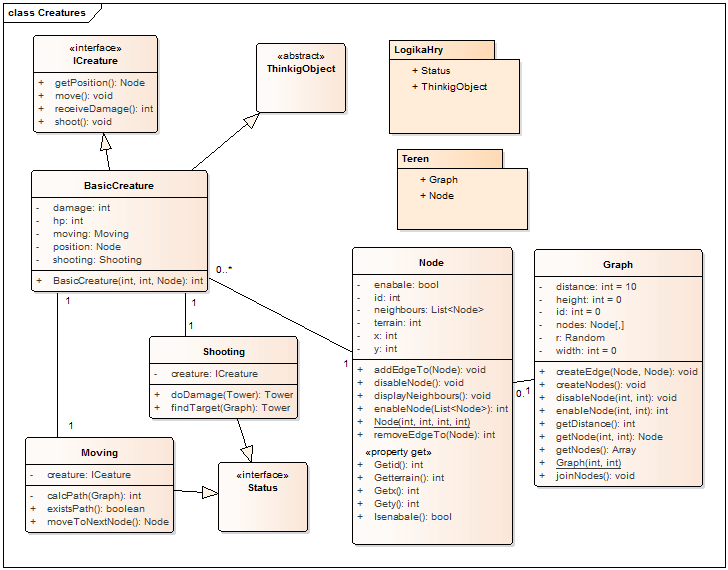
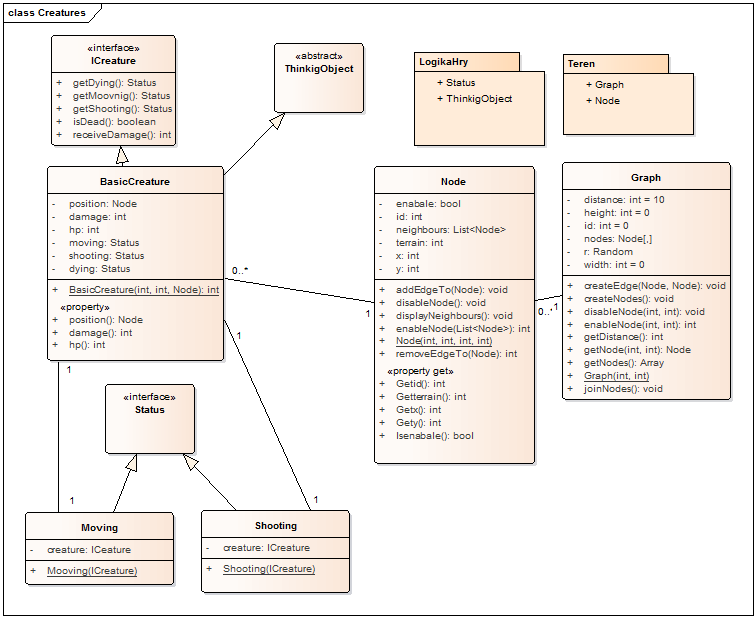
crreatures update

diff --git a/Logika potvor/BasicCreature.cs b/Logika potvor/BasicCreature.cs
@@ -1,16 +1,37 @@
-using System;
+using System;
 using System.Collections.Generic;
 using System.Linq;
 using System.Text;
 using System.Threading.Tasks;
 
-namespace DefendersOfH6
+namespace CreaturesV2
 {
     class BasicCreature : ThinkingObject, ICreature
     {
 
-        private int damage;
-        private int hp;
+        private Node position { get; set; }
+
+        private int damage { get; set; }
+
+        private int hp { get; set; }
+
+        private Status shooting;
+        private Status mooving;
+        private Status dying;
+
+        public BasicCreature(Node position, int damage, int hp)
+        {
+            this.position = position;
+            this.damage = damage;
+            this.hp = hp;
+
+            this.shooting = new Shooting(this);
+            this.mooving = new Mooving(this);
+            this.dying = new Dying(this);
+
+            base.presentStatus = mooving;
+        }
+        
         
         public override void action()
         {
@@ -22,21 +43,34 @@ namespace DefendersOfH6
         {
             throw new NotImplementedException();
         }
-        
-
-        public void Move()
-        {
-            throw new NotImplementedException();
-        }
 
         public int ReciveDamage(int damage)
         {
-            throw new NotImplementedException();
+            return this.damage -= damage;
         }
 
-        public void Shoot()
+        public Boolean isDead()
         {
-            throw new NotImplementedException();
+            if (hp <= 0)
+            {
+                return true;
+            }
+            return false;
+        }
+
+        public Status getDying()
+        {
+            return this.dying;
+        }
+
+        public Status getShooting()
+        {
+            return this.shooting;
+        }
+
+        public Status getMoovnig()
+        {
+            return this.mooving;
         }
     }
 }

diff --git a/Logika potvor/Dying.cs b/Logika potvor/Dying.cs
@@ -4,40 +4,35 @@ using System.Linq;
 using System.Text;
 using System.Threading.Tasks;
 
-namespace DefendersOfH6
+namespace CreaturesV2
 {
-    class Mooving : Status
+    class Dying : Status
     {
         private ICreature creature;
 
-        public Mooving(ICreature creature)
+        public Dying(ICreature creature)
         {
             this.creature = creature;
         }
-        
+
         public Status changeStatus()
         {
-            if (this.creature.isDead())
-            {
-                return this.creature.getDiying();
-            }
-            //change to Shooting is missing
             return null;
         }
 
         public void onEnd()
         {
-            throw new NotImplementedException();
+            //do nothing
         }
 
         public void onStart()
         {
-            throw new NotImplementedException();
+            //do nothing
         }
 
         public void prepare()
         {
-            throw new NotImplementedException();
+            //do nothing
         }
     }
 }

diff --git a/Logika potvor/Shooting.cs b/Logika potvor/Shooting.cs
@@ -1,4 +1,4 @@
-using System;
+using System;
 using System.Collections.Generic;
 using System.Linq;
 using System.Text;
@@ -10,9 +10,18 @@ namespace DefendersOfH6
     {
         private ICreature creature;
 
+        public Shooting(ICreature creature)
+        {
+            this.creature = creature;
+        }
+
         public Status changeStatus()
         {
-            throw new NotImplementedException();
+            if (this.creature.isDead())
+            {
+                return this.creature.getDiying();
+            }
+            return null;
         }
 
         public void onEnd()

diff --git a/Logika potvor/ICreature.cs b/Logika potvor/ICreature.cs
@@ -1,4 +1,4 @@
-using System;
+using System;
 using System.Collections.Generic;
 using System.Linq;
 using System.Text;
@@ -8,10 +8,11 @@ namespace DefendersOfH6
 {
     interface ICreature
     {
-        void Move();
-
         int ReciveDamage(int damage);
+        Boolean isDead();
 
-        void Shoot();
+        Status getDying();
+        Status getShooting();
+        Status getMoovnig();
     }
 }

diff --git a/Logika potvor/README.md b/Logika potvor/README.md
@@ -3,3 +3,5 @@
 
 UML Class diagram
 ![uml class diagram](https://github.com/dobias14/Defenders-of-H6/blob/master/Logika%20potvor/creaturesUML.png)
+
+![status](https://github.com/dobias14/Defenders-of-H6/blob/master/Logika%20potvor/basicCratureSM.png)
